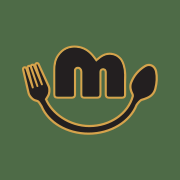
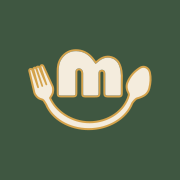
Schermata d'avvio, icone sul verde, e le cose che si posano
ICONE: sorriso cashmere su verde bosco, non piu' su fondo chiaro. In mezzo a
cinquanta icone la tua si riconosce da lontano, ed e' coerente con l'app. La
versione maskable sta piu' stretta (56% invece del 72%): Android ritaglia dentro
un cerchio e mangerebbe le punte della forchetta.

SCHERMATA D'AVVIO: un secondo di verde bosco col logo e 'La tua voce conta'.
⚠ Solo quando l'app e' INSTALLATA, non nel browser: li' uno ha gia' la barra
dell'indirizzo davanti e sa dov'e', sarebbe un secondo rubato.
⚠ 900 ms e non di piu': oltre non e' un saluto, e' un'attesa.

MOVIMENTI: la ciambella si compone invece di apparire (parte ruotata di un
quarto e si assesta) e le spese entrano a scaletta, 60 ms l'una. La scaletta si
ferma alla quarta: oltre diventa un'attesa, e chi apre l'app vuole leggere.
🔑 Tutti corti e nella stessa direzione - dal basso, e si posano. Un movimento
lungo o che rimbalza si nota due volte e poi da' fastidio tutti i giorni.
♿ Chi ha chiesto meno movimento nelle impostazioni del telefono non ne vede
nessuno, schermata d'avvio compresa.

Alzata la versione del guardiano a v3, se no i telefoni mostrano quella vecchia.

Changed region(s): [[0.1111, 0.25, 0.8889, 0.75]]

diff --git a/src/components/Avvio.tsx b/src/components/Avvio.tsx
@@ -1,0 +1,58 @@
+/**
+ * LA SCHERMATA D'AVVIO — un secondo di marchio, poi si lavora.
+ *
+ * 🔑 È il mezzo secondo in cui un'app dice di chi è. Tutte quelle grandi ce
+ * l'hanno, e non è vanità: quando apri qualcosa venti volte al giorno, quello
+ * che vedi per primo è quello che ti resta addosso.
+ *
+ * ⚠ Si vede **solo quando l'app è installata**, non nel browser. Nel browser
+ * uno ha già la barra dell'indirizzo davanti e sa dov'è: una schermata in più
+ * sarebbe solo un secondo rubato.
+ * ⚠ Dura **900 ms e non di più**: oltre non è un saluto, è un'attesa. E chi ha
+ * chiesto meno movimento nelle impostazioni del telefono non la vede affatto.
+ */
+import { useEffect, useState } from "react";
+
+function installata(): boolean {
+  if (typeof window === "undefined") return false;
+  if (window.matchMedia("(display-mode: standalone)").matches) return true;
+  return (window.navigator as Navigator & { standalone?: boolean }).standalone === true;
+}
+
+function menoMovimento(): boolean {
+  if (typeof window === "undefined") return false;
+  return window.matchMedia("(prefers-reduced-motion: reduce)").matches;
+}
+
+export function Avvio({ children }: { children: React.ReactNode }) {
+  const [mostra, setMostra] = useState(() => installata() && !menoMovimento());
+
+  useEffect(() => {
+    if (!mostra) return;
+    const t = setTimeout(() => setMostra(false), 900);
+    return () => clearTimeout(t);
+  }, [mostra]);
+
+  if (!mostra) return <>{children}</>;
+
+  return (
+    <div
+      className="fixed inset-0 z-50 flex flex-col items-center justify-center gap-6"
+      style={{ backgroundColor: "var(--scuro-scheda)" }}
+    >
+      <img
+        src={`${import.meta.env.BASE_URL}marchio/mono-orizzontale-chiaro.svg`}
+        alt="MONO — Bottega Gastronomica"
+        className="entra h-14 w-auto"
+        width={220}
+        height={56}
+      />
+      <p
+        className="entra text-sm tracking-[0.18em] uppercase"
+        style={{ color: "var(--scuro-testo)", opacity: 0.7, animationDelay: "120ms" }}
+      >
+        La tua voce conta
+      </p>
+    </div>
+  );
+}

diff --git a/src/styles.css b/src/styles.css
@@ -201,3 +201,36 @@
     opacity: 0;
   }
 }
+
+/* ══════════════════════════════════════════════════════════════════════════
+   I MOVIMENTI — quelli che fanno sembrare un'app "costosa".
+   Sono pochi, corti e sempre nella stessa direzione: le cose entrano dal
+   basso e si posano. Un'animazione lunga o che rimbalza si nota due volte e
+   poi dà fastidio tutti i giorni.
+   ⚠ Chi ha chiesto meno movimento nelle impostazioni del telefono non ne
+   vede nessuno: è una preferenza di accessibilità, non un capriccio.
+   ══════════════════════════════════════════════════════════════════════════ */
+
+@keyframes mono-entra {
+  from { opacity: 0; transform: translateY(10px); }
+  to   { opacity: 1; transform: none; }
+}
+
+/* La ciambella non "appare": si compone. Parte piccola e ruotata di un quarto,
+   e si assesta - l'occhio la legge come un disegno che si chiude. */
+@keyframes mono-disegna {
+  from { opacity: 0; transform: rotate(-90deg) scale(0.86); }
+  to   { opacity: 1; transform: none; }
+}
+
+@utility entra {
+  animation: mono-entra 0.32s cubic-bezier(0.2, 0.7, 0.3, 1) both;
+}
+
+@utility disegna {
+  animation: mono-disegna 0.55s cubic-bezier(0.2, 0.7, 0.3, 1) both;
+}
+
+@media (prefers-reduced-motion: reduce) {
+  .entra, .disegna { animation: none; }
+}

diff --git a/src/components/RigaMovimento.tsx b/src/components/RigaMovimento.tsx
@@ -13,21 +13,31 @@ export function RigaMovimento({
    * si perdono, una scheda staccata si legge da lontano.
    */
   scheda = false,
+  /** Quanto aspetta prima di entrare, per farle arrivare a scaletta. */
+  ritardoMs = 0,
 }: {
   m: Movimento;
   conData?: boolean;
   modificabile?: boolean;
   cestino?: boolean;
   scheda?: boolean;
+  ritardoMs?: number;
 }) {
   return (
     <li
       className={
         scheda
-          ? "scheda flex items-center gap-3 border-l-4 py-2.5 pr-2 pl-3"
+          ? "scheda entra flex items-center gap-3 border-l-4 py-2.5 pr-2 pl-3"
           : "flex items-center gap-3 border-b border-border py-3 last:border-0"
       }
-      style={scheda ? { borderLeftColor: COLORI_CATEGORIA[m.categoria] } : undefined}
+      style={
+        scheda
+          ? {
+              borderLeftColor: COLORI_CATEGORIA[m.categoria],
+              animationDelay: `${ritardoMs}ms`,
+            }
+          : undefined
+      }
     >
       {!scheda && (
         <span

diff --git a/src/routes/__root.tsx b/src/routes/__root.tsx
@@ -1,6 +1,7 @@
 import { QueryClient, QueryClientProvider } from "@tanstack/react-query";
 import { Outlet, Link, createRootRouteWithContext, useRouter } from "@tanstack/react-router";
 
+import { Avvio } from "@/components/Avvio";
 import { Benvenuto } from "@/components/Benvenuto";
 import { Iscrizione } from "@/components/Iscrizione";
 import { useStato } from "@/lib/store";
@@ -83,6 +84,7 @@ function RootComponent() {
 
   return (
     <QueryClientProvider client={queryClient}>
+      <Avvio>
       {/* La presentazione prende tutto lo schermo, una volta sola. Sta qui e non
           dentro la Home perché non deve avere la barra in basso: chi la vede la
           prima volta non ha ancora niente da guardare nelle altre schede. */}
@@ -97,6 +99,7 @@ function RootComponent() {
         // Obbligatorio: le pagine figlie compaiono qui. Togliendo <Outlet /> non si apre più niente.
         <Outlet />
       )}
+      </Avvio>
     </QueryClientProvider>
   );
 }

diff --git a/src/routes/index.tsx b/src/routes/index.tsx
@@ -94,8 +94,16 @@ function Home() {
           </p>
         ) : (
           <ul className="space-y-2">
-            {movimenti.slice(0, 8).map((m) => (
-              <RigaMovimento key={m.id} m={m} scheda />
+            {movimenti.slice(0, 8).map((m, i) => (
+              <RigaMovimento
+                key={m.id}
+                m={m}
+                scheda
+                /* A scaletta: entrano una dopo l'altra, non tutte insieme.
+                   Si ferma alla quarta — oltre diventa un'attesa, non un
+                   movimento, e chi apre l'app vuole leggere, non guardare. */
+                ritardoMs={Math.min(i, 3) * 60}
+              />
             ))}
           </ul>
         )}

diff --git a/src/components/DoveVannoISoldi.tsx b/src/components/DoveVannoISoldi.tsx
@@ -56,7 +56,7 @@ export function DoveVannoISoldi({
       <section className="scheda mt-4 flex items-center gap-4 p-4">
         <div className="relative h-24 w-24 shrink-0">
           <div
-            className="h-full w-full rounded-full"
+            className="disegna h-full w-full rounded-full"
             role="img"
             aria-label={`Uscite per categoria: ${voci
               .map((v) => `${v.categoria} ${Math.round(v.quota * 100)}%`)

diff --git a/public/sw.js b/public/sw.js
@@ -8,7 +8,7 @@
  * Senza, i telefoni che hanno già l'app continuano a mostrare quella vecchia e
  * sembra che le correzioni non siano state fatte.
  */
-const VERSIONE = "mono-money-v2";
+const VERSIONE = "mono-money-v3";
 
 /**
  * Tutto si calcola dalla RADICE dove il guardiano è registrato, mai da "/".
